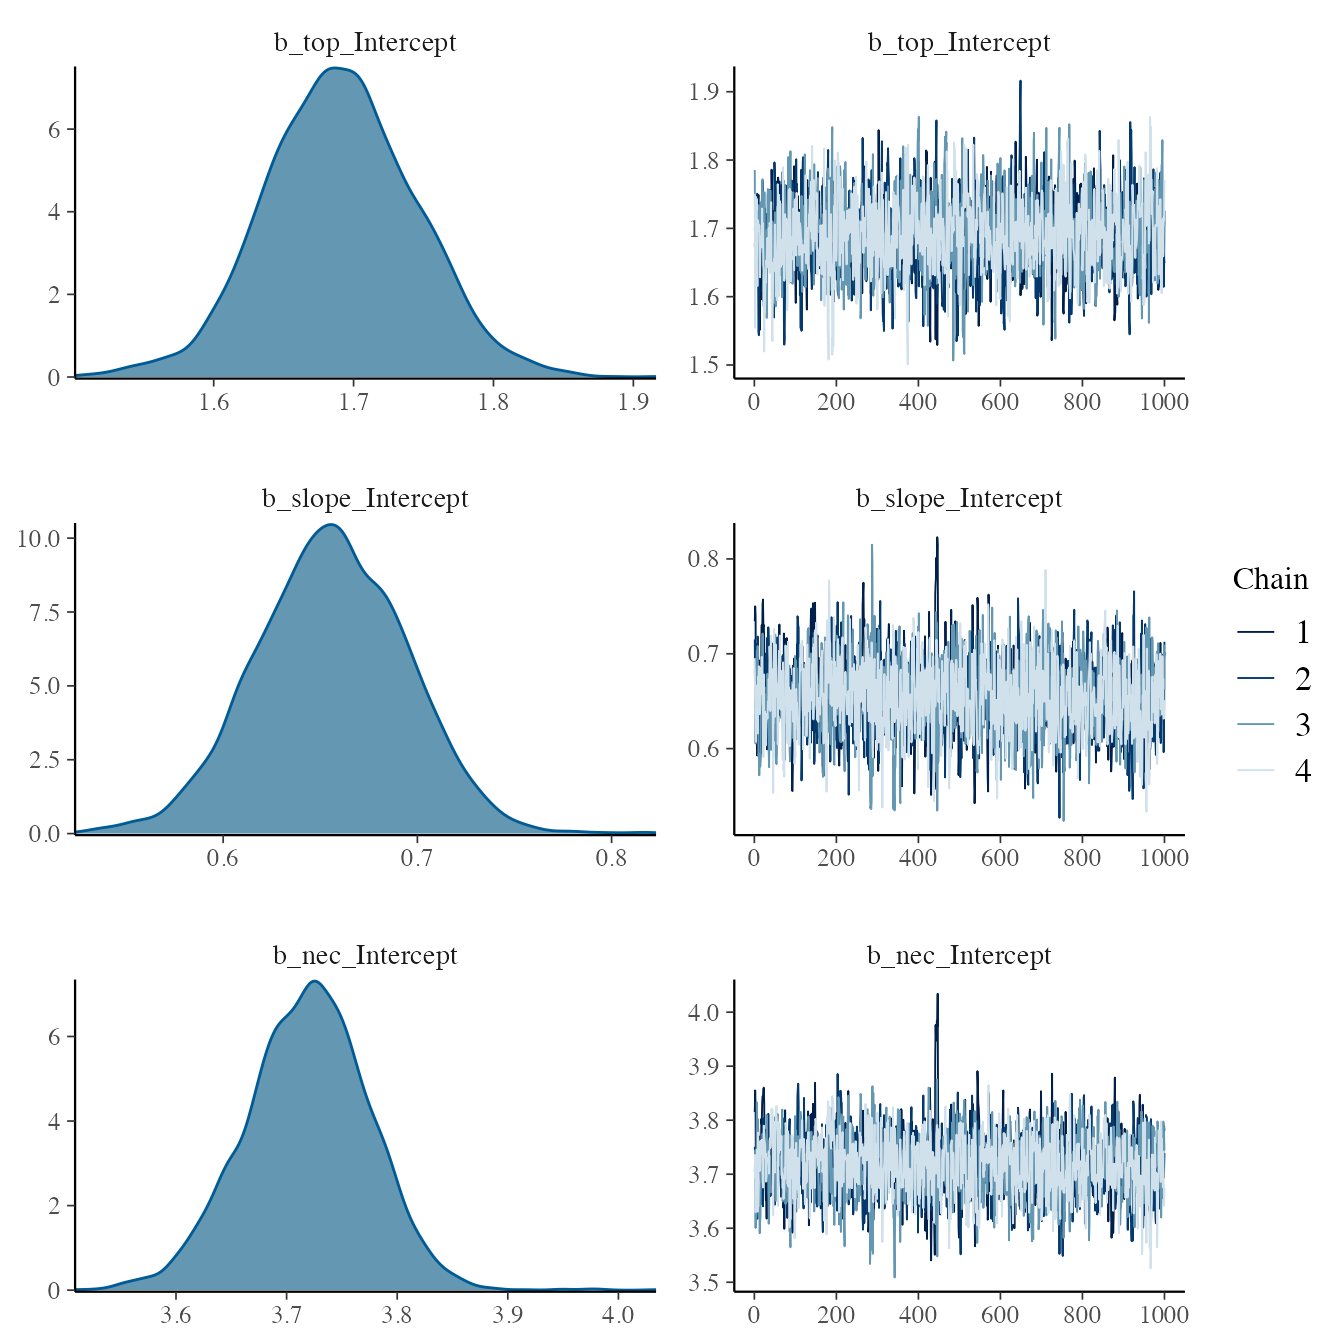
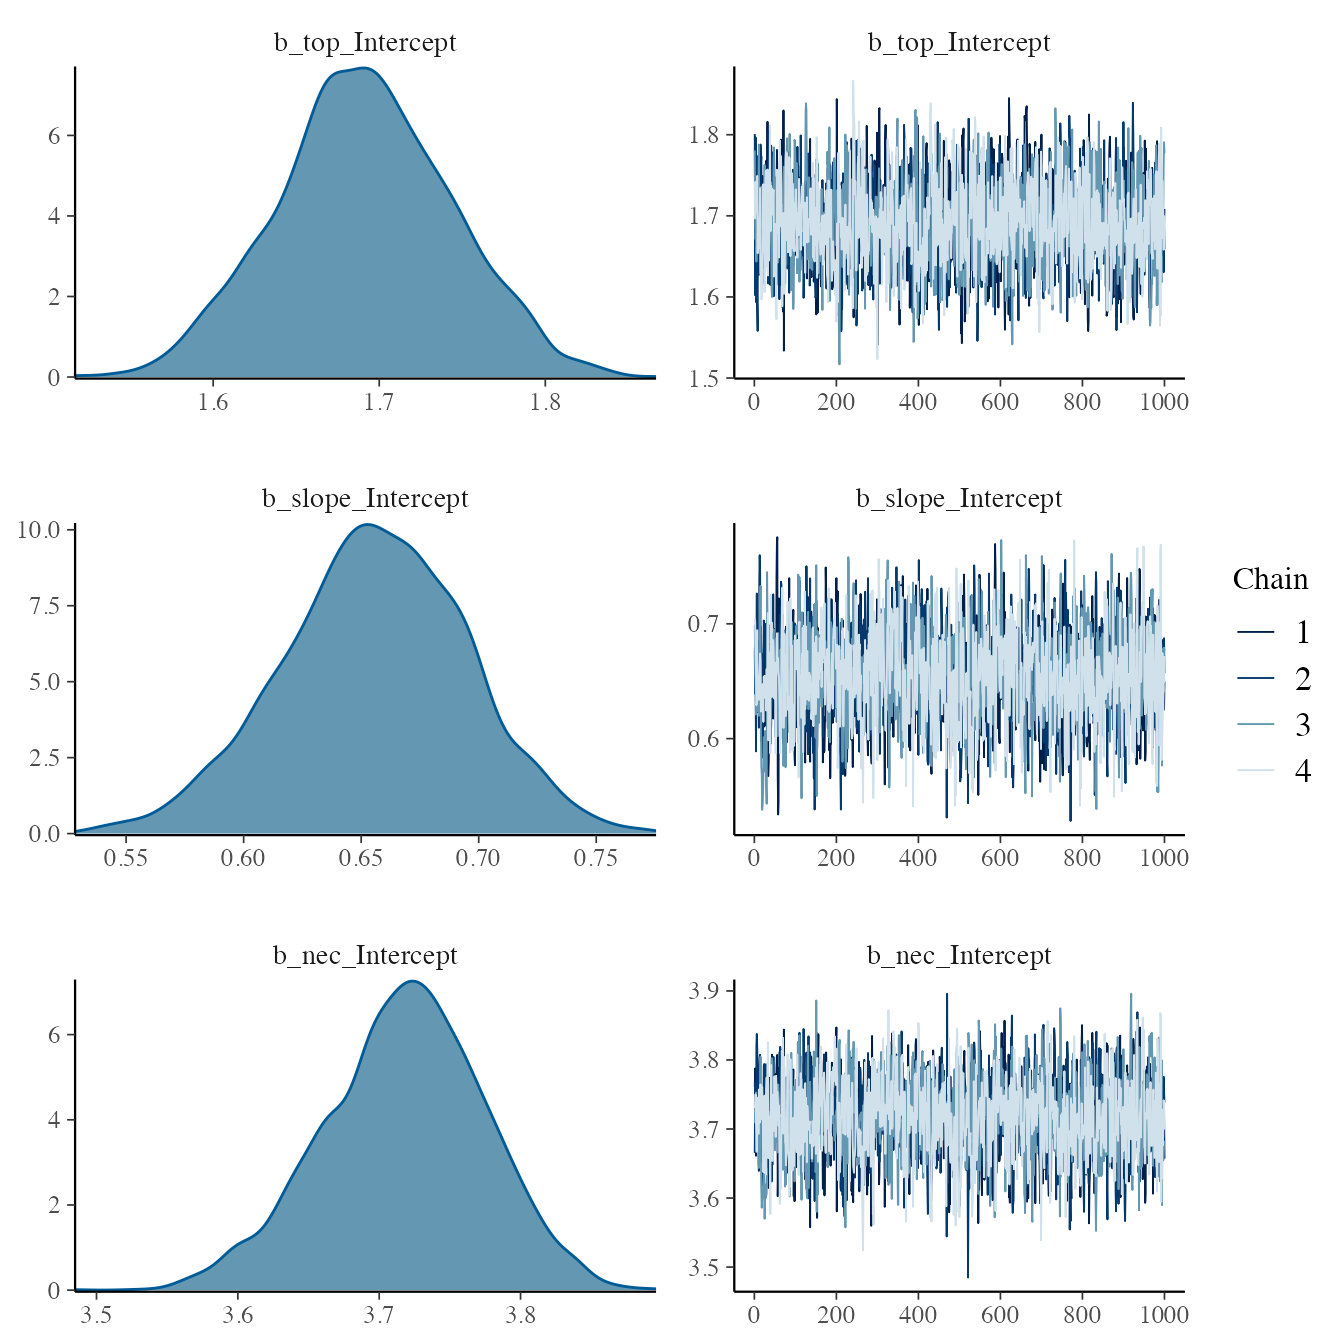
Built site for bayesnec: 1.0.1@fb9e075

diff --git a/articles/example1.html b/articles/example1.html
@@ -176,10 +176,10 @@
               y_var <span class="op">=</span> <span class="st">"suc"</span>, model <span class="op">=</span> <span class="st">"neclin"</span>,
               trials_var <span class="op">=</span> <span class="st">"tot"</span><span class="op">)</span></code></pre></div>
 <pre><code>## 
-## SAMPLING FOR MODEL '61a1c984441affbd120719f7882231ad' NOW (CHAIN 1).
+## SAMPLING FOR MODEL '4a243744b7493660dc3a4a366b116b5a' NOW (CHAIN 1).
 ## Chain 1: 
-## Chain 1: Gradient evaluation took 0.000201 seconds
-## Chain 1: 1000 transitions using 10 leapfrog steps per transition would take 2.01 seconds.
+## Chain 1: Gradient evaluation took 9.1e-05 seconds
+## Chain 1: 1000 transitions using 10 leapfrog steps per transition would take 0.91 seconds.
 ## Chain 1: Adjust your expectations accordingly!
 ## Chain 1: 
 ## Chain 1: 
@@ -196,15 +196,15 @@
 ## Chain 1: Iteration: 9001 / 10000 [ 90%]  (Sampling)
 ## Chain 1: Iteration: 10000 / 10000 [100%]  (Sampling)
 ## Chain 1: 
-## Chain 1:  Elapsed Time: 2.1635 seconds (Warm-up)
-## Chain 1:                0.269809 seconds (Sampling)
-## Chain 1:                2.43331 seconds (Total)
+## Chain 1:  Elapsed Time: 2.0977 seconds (Warm-up)
+## Chain 1:                0.315887 seconds (Sampling)
+## Chain 1:                2.41359 seconds (Total)
 ## Chain 1: 
 ## 
-## SAMPLING FOR MODEL '61a1c984441affbd120719f7882231ad' NOW (CHAIN 2).
+## SAMPLING FOR MODEL '4a243744b7493660dc3a4a366b116b5a' NOW (CHAIN 2).
 ## Chain 2: 
-## Chain 2: Gradient evaluation took 4.5e-05 seconds
-## Chain 2: 1000 transitions using 10 leapfrog steps per transition would take 0.45 seconds.
+## Chain 2: Gradient evaluation took 4e-05 seconds
+## Chain 2: 1000 transitions using 10 leapfrog steps per transition would take 0.4 seconds.
 ## Chain 2: Adjust your expectations accordingly!
 ## Chain 2: 
 ## Chain 2: 
@@ -221,15 +221,15 @@
 ## Chain 2: Iteration: 9001 / 10000 [ 90%]  (Sampling)
 ## Chain 2: Iteration: 10000 / 10000 [100%]  (Sampling)
 ## Chain 2: 
-## Chain 2:  Elapsed Time: 2.20033 seconds (Warm-up)
-## Chain 2:                0.286001 seconds (Sampling)
-## Chain 2:                2.48633 seconds (Total)
+## Chain 2:  Elapsed Time: 2.07007 seconds (Warm-up)
+## Chain 2:                0.276709 seconds (Sampling)
+## Chain 2:                2.34678 seconds (Total)
 ## Chain 2: 
 ## 
-## SAMPLING FOR MODEL '61a1c984441affbd120719f7882231ad' NOW (CHAIN 3).
+## SAMPLING FOR MODEL '4a243744b7493660dc3a4a366b116b5a' NOW (CHAIN 3).
 ## Chain 3: 
-## Chain 3: Gradient evaluation took 6.2e-05 seconds
-## Chain 3: 1000 transitions using 10 leapfrog steps per transition would take 0.62 seconds.
+## Chain 3: Gradient evaluation took 4.2e-05 seconds
+## Chain 3: 1000 transitions using 10 leapfrog steps per transition would take 0.42 seconds.
 ## Chain 3: Adjust your expectations accordingly!
 ## Chain 3: 
 ## Chain 3: 
@@ -246,15 +246,15 @@
 ## Chain 3: Iteration: 9001 / 10000 [ 90%]  (Sampling)
 ## Chain 3: Iteration: 10000 / 10000 [100%]  (Sampling)
 ## Chain 3: 
-## Chain 3:  Elapsed Time: 2.11869 seconds (Warm-up)
-## Chain 3:                0.297965 seconds (Sampling)
-## Chain 3:                2.41666 seconds (Total)
+## Chain 3:  Elapsed Time: 2.0604 seconds (Warm-up)
+## Chain 3:                0.286211 seconds (Sampling)
+## Chain 3:                2.34661 seconds (Total)
 ## Chain 3: 
 ## 
-## SAMPLING FOR MODEL '61a1c984441affbd120719f7882231ad' NOW (CHAIN 4).
+## SAMPLING FOR MODEL '4a243744b7493660dc3a4a366b116b5a' NOW (CHAIN 4).
 ## Chain 4: 
-## Chain 4: Gradient evaluation took 4.5e-05 seconds
-## Chain 4: 1000 transitions using 10 leapfrog steps per transition would take 0.45 seconds.
+## Chain 4: Gradient evaluation took 3.9e-05 seconds
+## Chain 4: 1000 transitions using 10 leapfrog steps per transition would take 0.39 seconds.
 ## Chain 4: Adjust your expectations accordingly!
 ## Chain 4: 
 ## Chain 4: 
@@ -271,9 +271,9 @@
 ## Chain 4: Iteration: 9001 / 10000 [ 90%]  (Sampling)
 ## Chain 4: Iteration: 10000 / 10000 [100%]  (Sampling)
 ## Chain 4: 
-## Chain 4:  Elapsed Time: 2.13302 seconds (Warm-up)
-## Chain 4:                0.312769 seconds (Sampling)
-## Chain 4:                2.44579 seconds (Total)
+## Chain 4:  Elapsed Time: 2.10472 seconds (Warm-up)
+## Chain 4:                0.282345 seconds (Sampling)
+## Chain 4:                2.38707 seconds (Total)
 ## Chain 4:</code></pre>
 <p>The function shows the progress of the <code>brms</code> fit and returns the usual <code>brms</code> output (with a few other elements added to this list). The function <code>plot(exp_1$fit)</code> can be used to plot the chains, so we can assess mixing and look for other potential issues with the model fit. Initially <code>bayesnec</code> will attempt to use starting values generated for that type of model formula and family. It will run the iterations and then test if all chains are valid. If the model does not have valid chains <code>bayesnec</code> with try up to <code>n_tries</code> more times to fit the data using either <code>bayesnec</code> generated or <code>brms</code> default initial values and obtain a successfully fitted model with good mixing. If no model is successfully fit an error will be returned indicating the model could not be fit successfully.</p>
 <div class="sourceCode" id="cb10"><pre class="downlit sourceCode r">
@@ -300,9 +300,9 @@
 ## 
 ## Population-Level Effects: 
 ##                 Estimate Est.Error l-95% CI u-95% CI Rhat Bulk_ESS Tail_ESS
-## top_Intercept       1.69      0.05     1.59     1.80 1.00     1731     1866
-## slope_Intercept     0.66      0.04     0.58     0.73 1.00     1928     1799
-## nec_Intercept       3.72      0.05     3.61     3.82 1.00     1679     1668
+## top_Intercept       1.69      0.05     1.59     1.79 1.00     2051     2174
+## slope_Intercept     0.66      0.04     0.58     0.73 1.00     1888     1923
+## nec_Intercept       3.72      0.06     3.60     3.82 1.00     1669     1549
 ## 
 ## Samples were drawn using sampling(NUTS). For each parameter, Bulk_ESS
 ## and Tail_ESS are effective sample size measures, and Rhat is the potential
@@ -324,7 +324,7 @@
 <div class="sourceCode" id="cb16"><pre class="downlit sourceCode r">
 <code class="sourceCode R"><span class="va">exp_1</span><span class="op">$</span><span class="va">dispersion</span></code></pre></div>
 <pre><code>## Estimate     Q2.5    Q97.5 
-## 19.41786 12.98657 30.15245</code></pre>
+## 19.47908 13.00834 30.38918</code></pre>
 </div>
 <div id="beta-binomial" class="section level3">
 <h3 class="hasAnchor">
